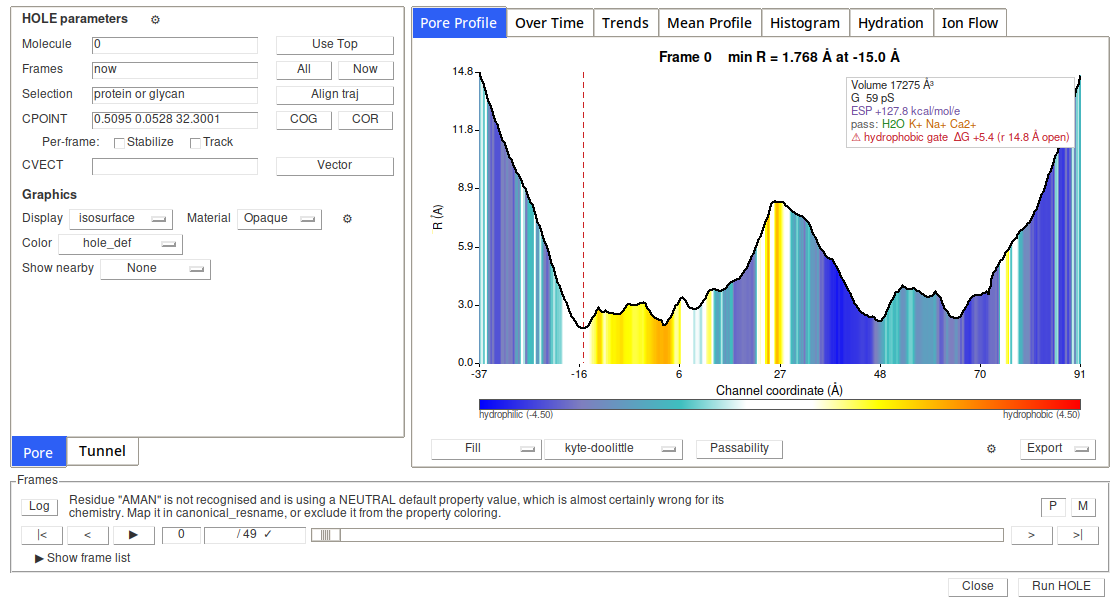
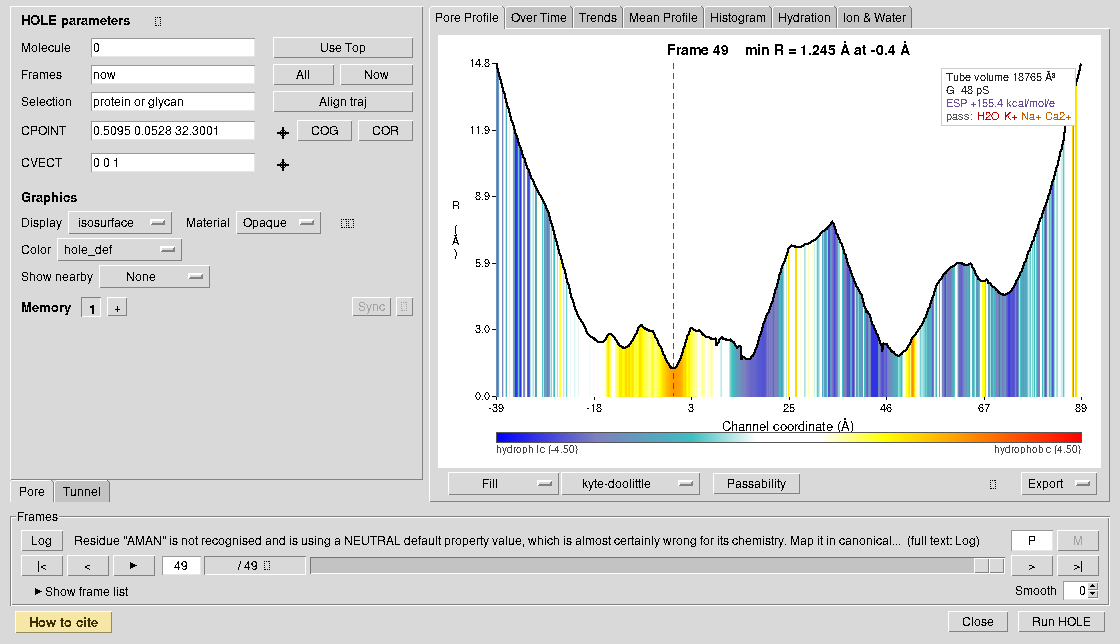
docs: refresh panel screenshots and performance figure, collapsible scope

diff --git a/docs/parameters.md b/docs/parameters.md
@@ -191,11 +191,11 @@ is required. Compare more than one bandwidth when the conclusion depends on a
 narrow gate, and always report the selected value. A floor-limited dry-bin
 barrier is a sampling-dependent lower bound.
 
-## Ion Flow, permeation, and passability
+## Ion & Water, permeation, and passability
 
 | Parameter | Default | Definition |
 |---|---:|---|
-| Ion Flow view | Occupancy % | Occupancy map, Passage tracks, Count vs frame, or Openings (Connolly occupancy and visit statistics) |
+| Ion & Water view | Occupancy % | Occupancy map, Passage tracks, Count vs frame, or Openings (Connolly occupancy and visit statistics) |
 | Passage Show (Water only) | All crossing | All crossing, Passage up, Passage down, or All entered (adds the molecules that never crossed) |
 | Species | All detected | All = every ion type, never water; Water = one oxygen per molecule from the Hydration water selection |
 | Shell | 3 Å | Radial region beyond the mean pore wall included in the map |

diff --git a/docs/troubleshooting.md b/docs/troubleshooting.md
@@ -46,7 +46,7 @@ stage, and output path there.
 |---|---|
 | Hydration Compute finds no water | Use a selection containing one oxygen per explicit water and verify frame/box preparation |
 | Water-derived properties are absent | Complete Hydration Compute first; **Per-frame ρ** requires per-frame hydration data |
-| Ion Flow shows no species | Verify VMD residue/element naming and that ions enter the analysed radial region |
+| Ion & Water shows no species | Verify VMD residue/element naming and that ions enter the analysed radial region |
 | Passage and permeation counts differ | Expected: passage includes near-pore entry; permeation requires a complete bulk-to-bulk crossing |
 | Permeation warning about sampling or PBC | Re-image the trajectory, use sufficiently frequent saved frames, and treat unsupported triclinic handling as unvalidated |
 

diff --git a/README.md b/README.md
@@ -150,6 +150,9 @@ For complete worked examples, choose a path in the
 
 ## Scientific scope
 
+<details>
+<summary>What each mode measures, and what it does not claim</summary>
+
 **Pore mode** follows a specified channel axis. Spherical HOLE estimates the
 largest non-overlapping probe sphere at successive positions; Connolly and
 Capsule supply alternative cross-sectional models. Results depend on the atom
@@ -166,6 +169,8 @@ Water free energy, ion occupancy, passage, and permeation analyses depend on
 the sampling and preparation of the supplied trajectory. A geometric opening
 or conductance estimate is not evidence of biological permeation; support such
 claims with suitable simulation or experimental data.
+
+</details>
 
 ## Citation and notices
 
